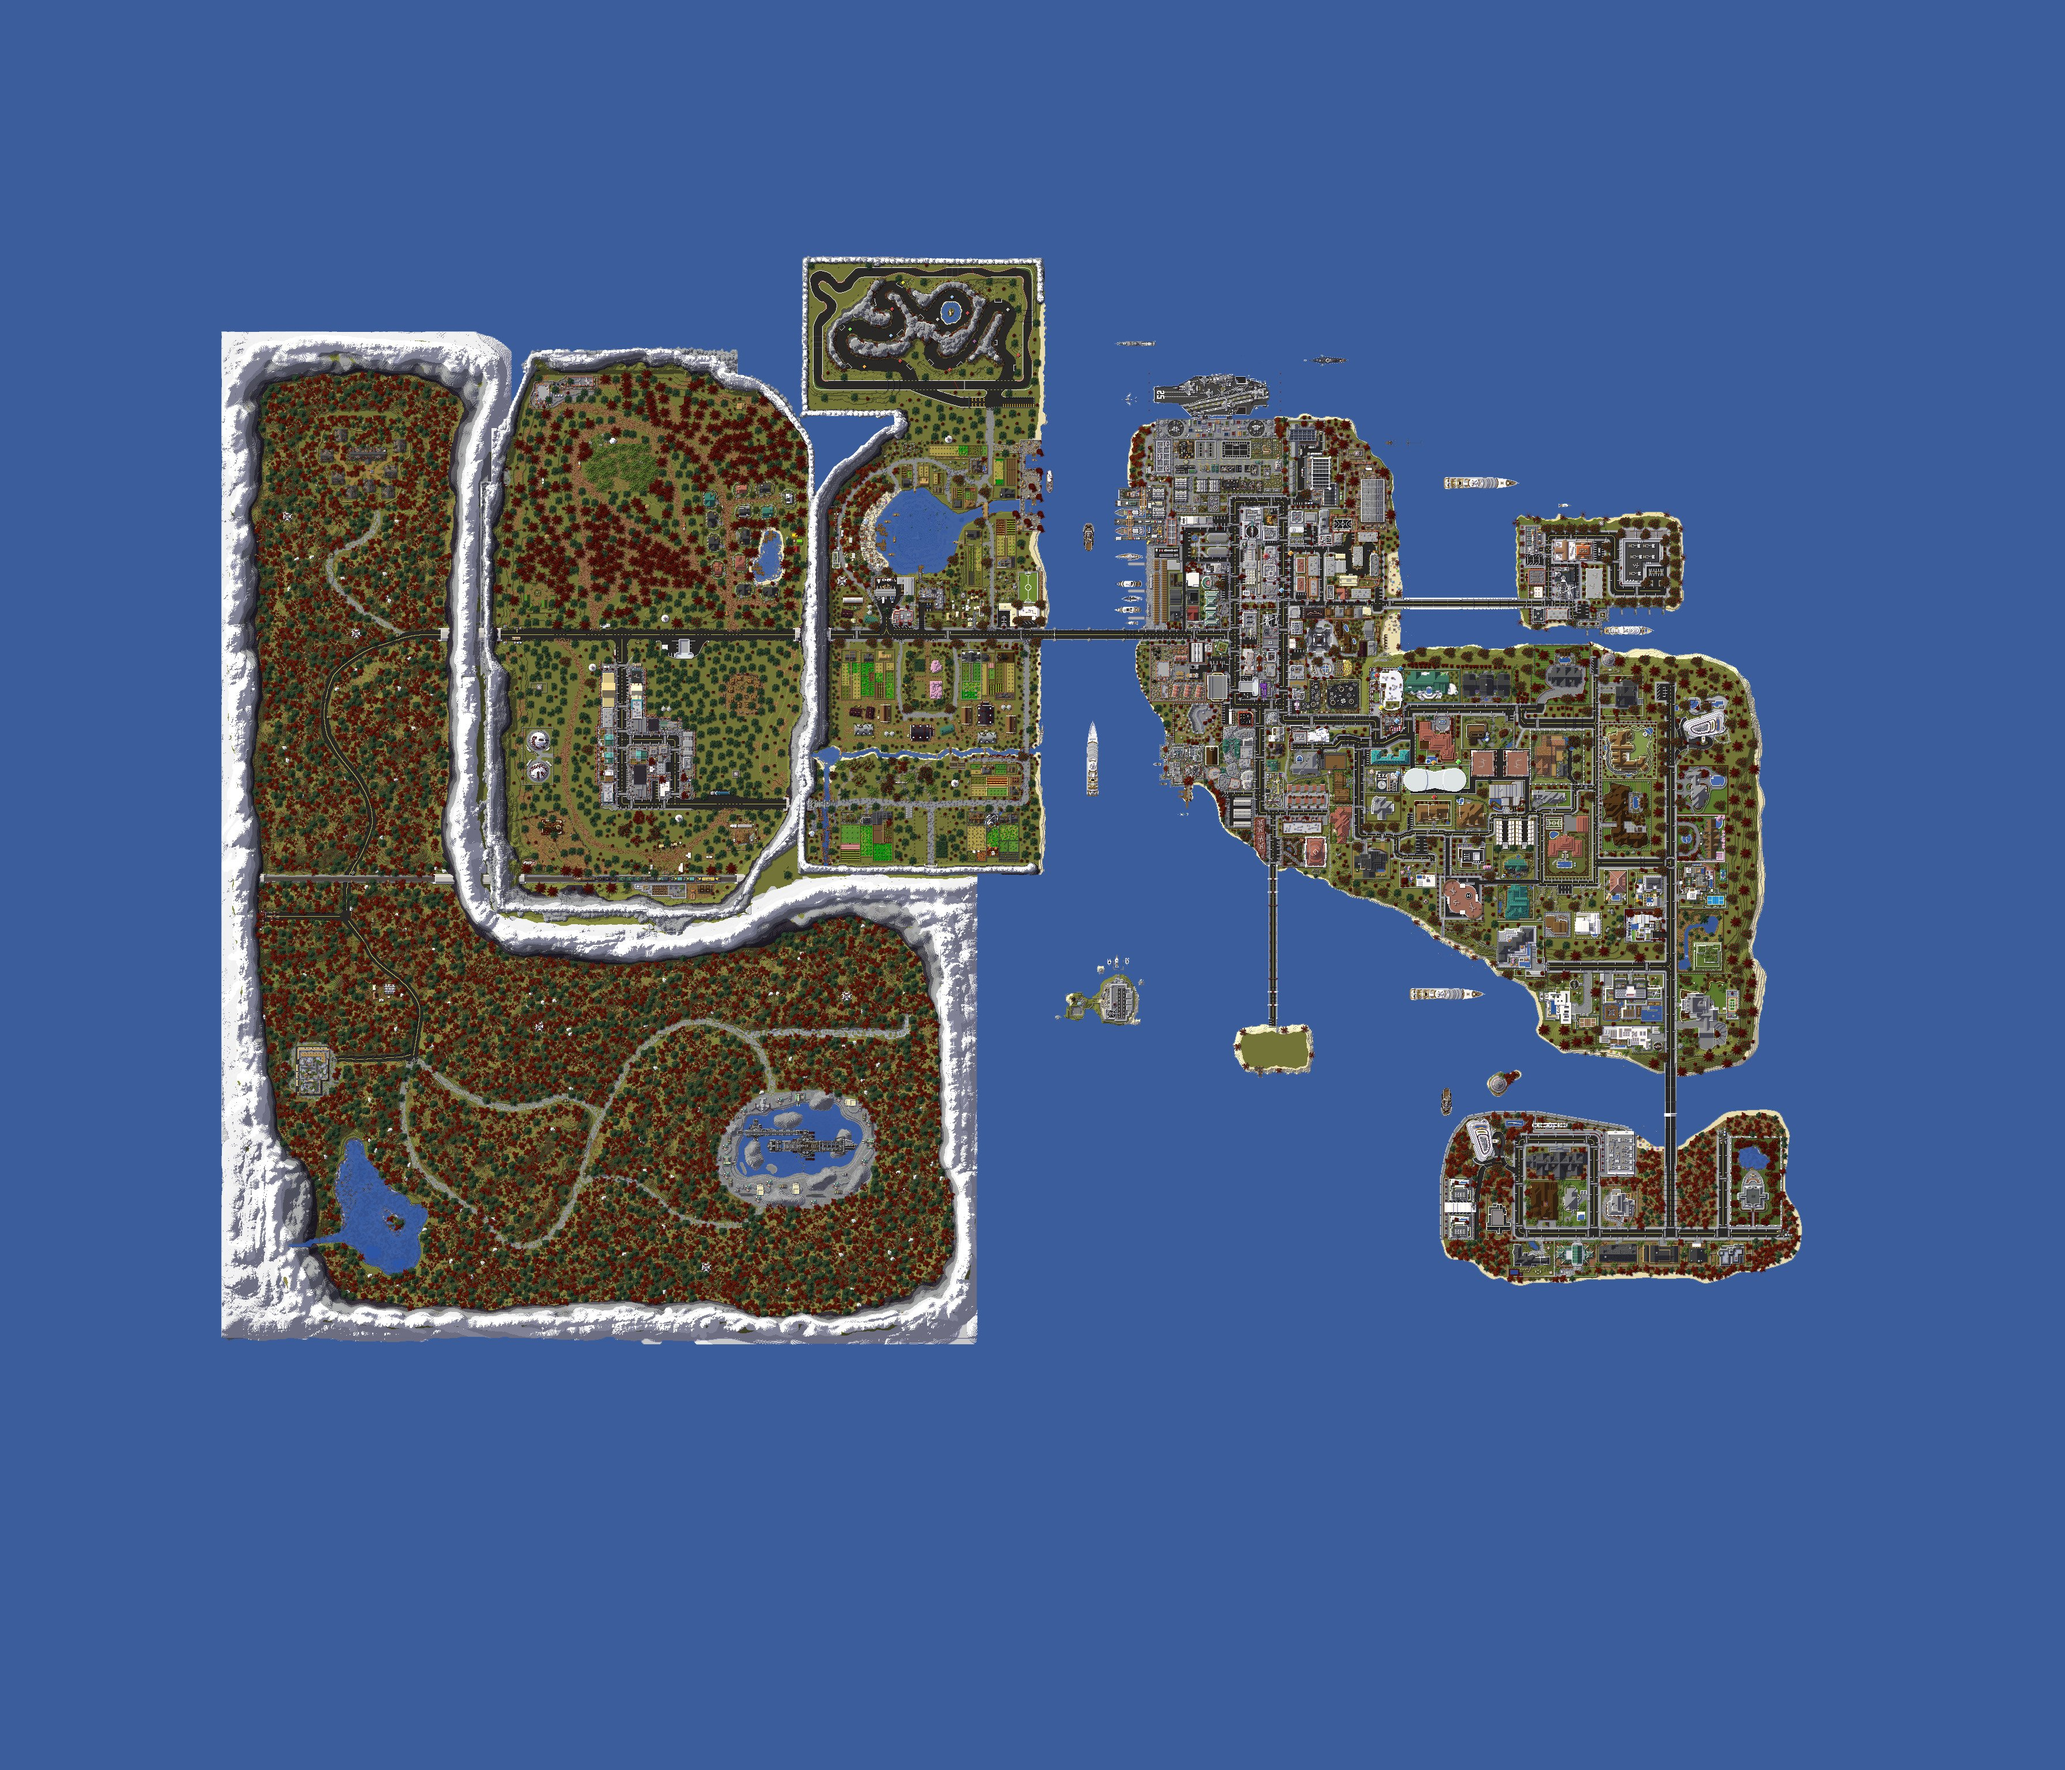
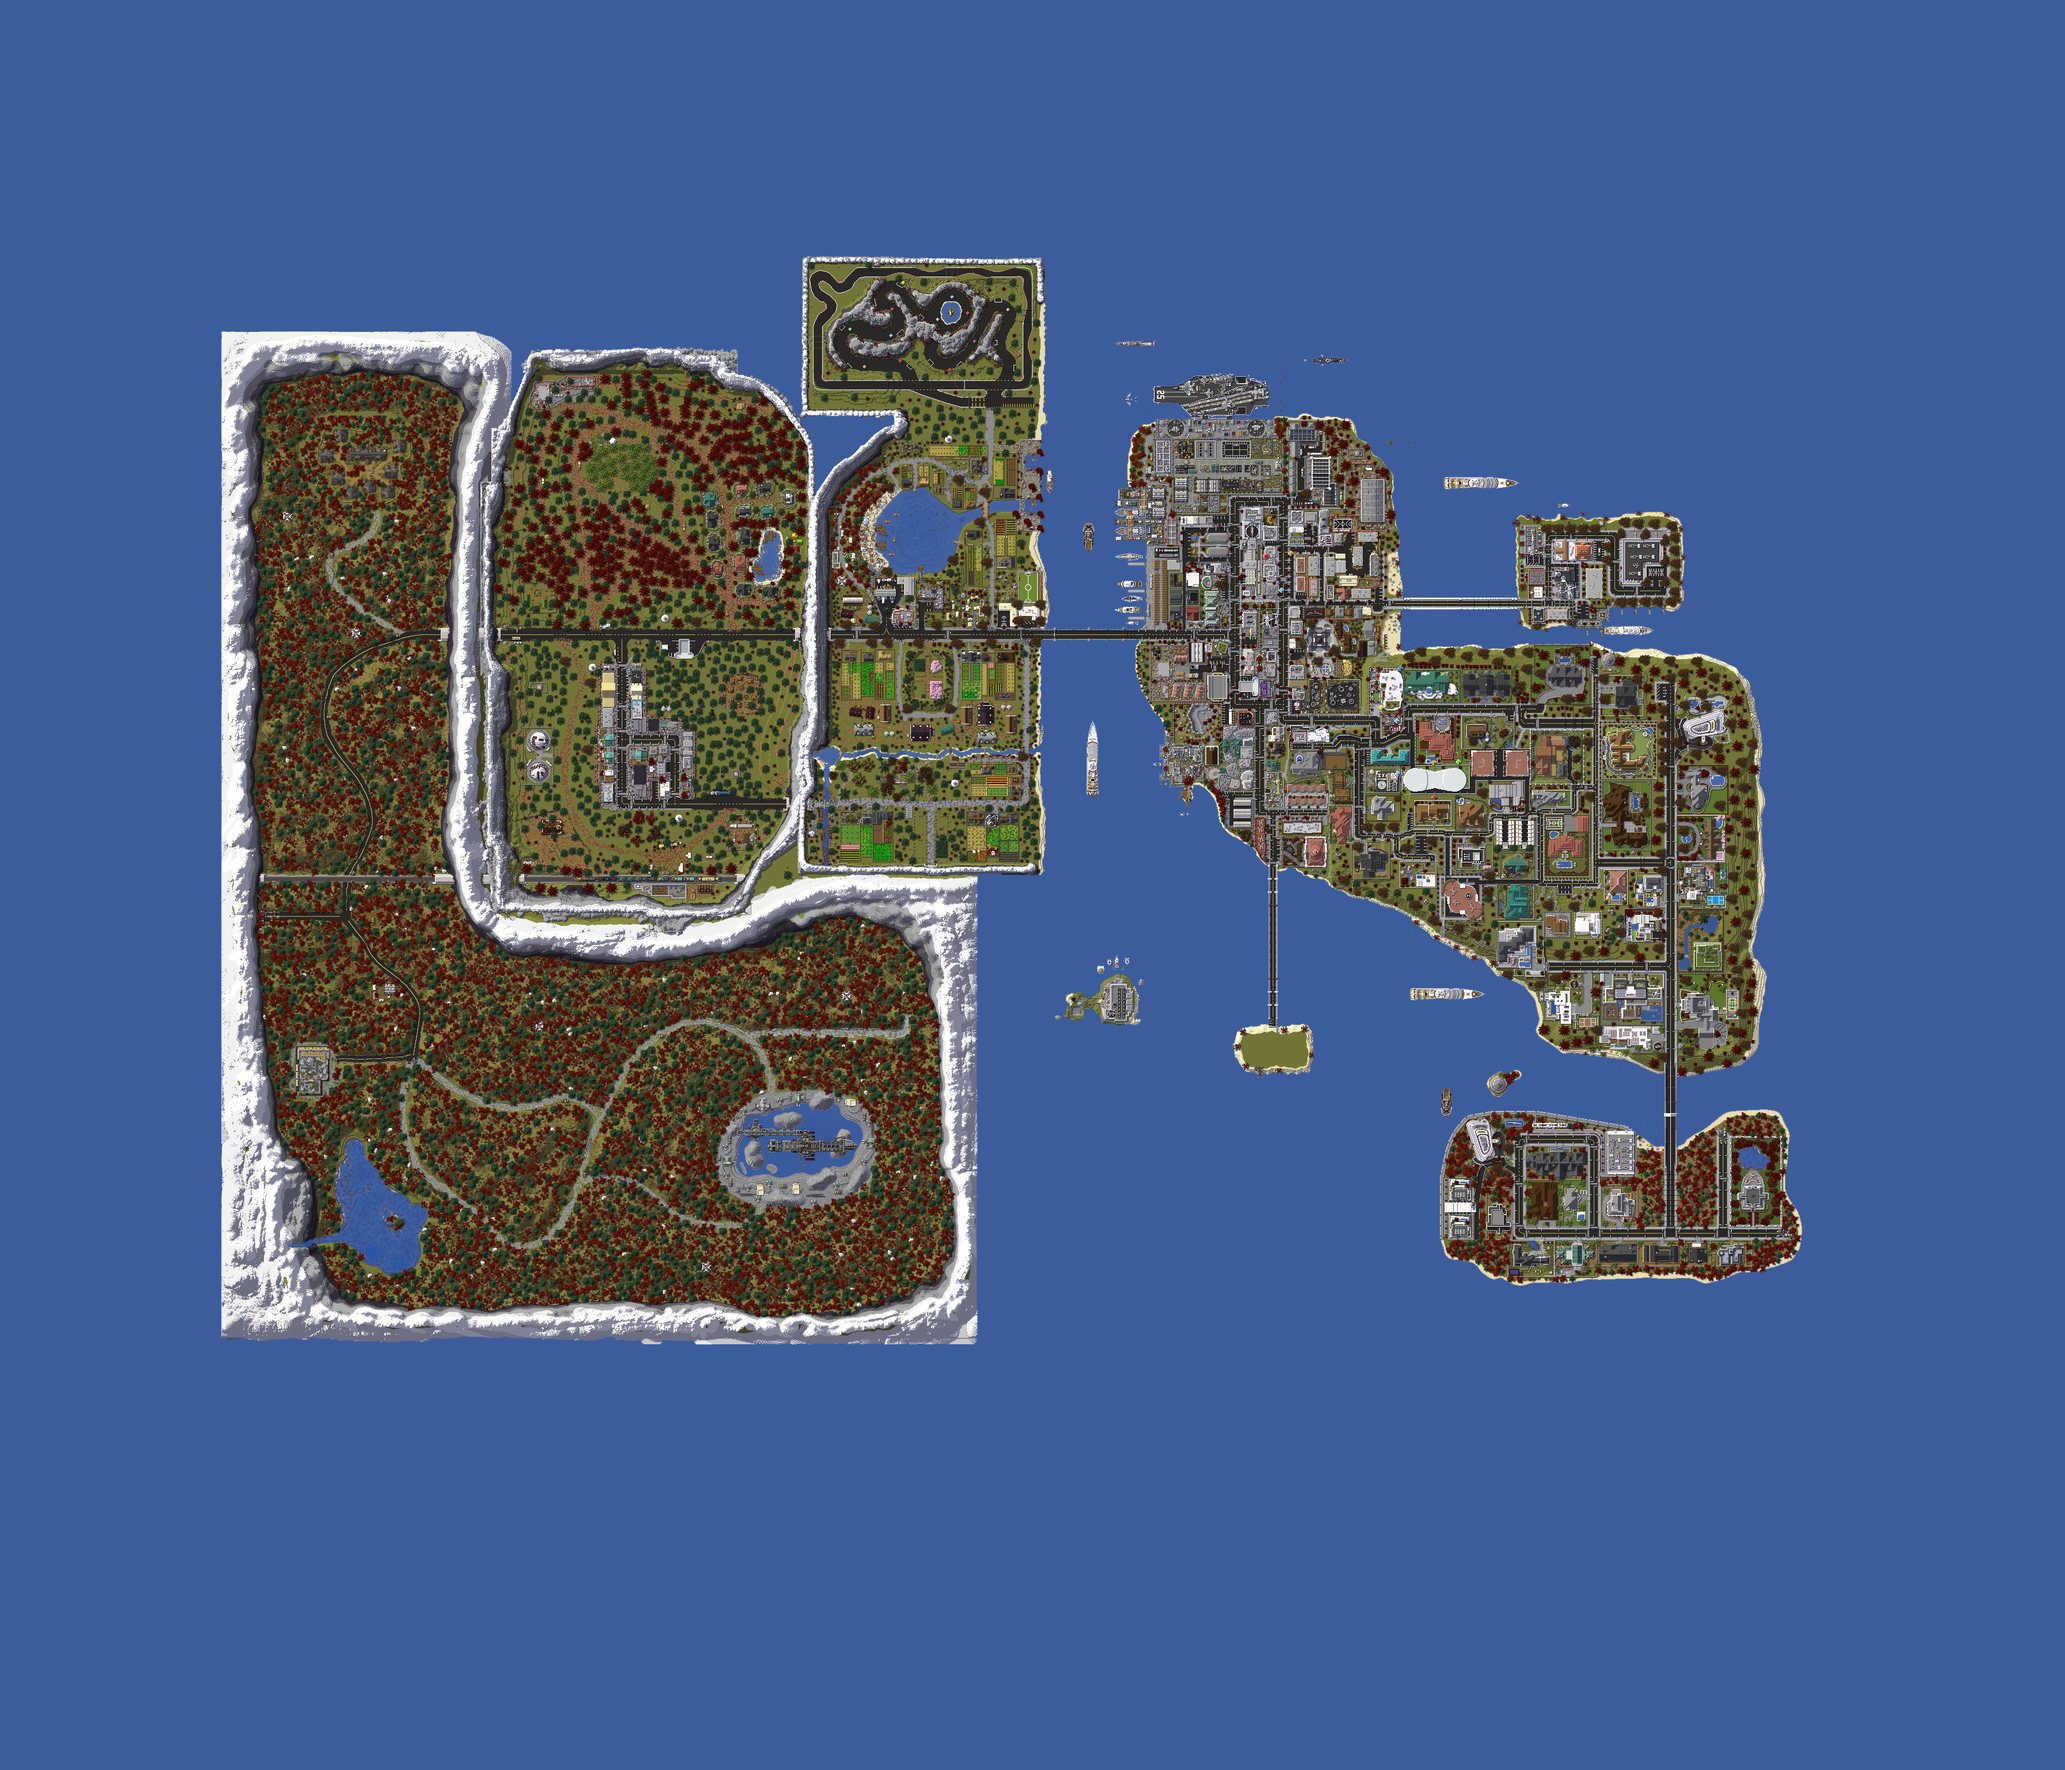
fix: zoom as deep as the reference site, use original map JPEGs
maxZoom 1.5 -> 3.25: the map now reaches ~19000 px on screen, the same
as UniverTutor (3303 px image at zoom 2.5). The map images were
re-encoded at q85 with 4:2:0 chroma subsampling, which blurred colours
and thin details; they are now the user's originals byte for byte
(4:4:4, ~q90).

diff --git a/js/app.js b/js/app.js
@@ -19,7 +19,9 @@
     crs: L.CRS.Simple,
     zoomSnap: 0.25,
     zoomDelta: 0.5,
-    maxZoom: 1.5, // исходник 3584 px ≈ зум 0.84, дальше лёгкое увеличение
+    // Карта 2000 единиц шириной; на зуме 3.25 она ≈ 19000 px на экране —
+    // столько же, сколько у примера UniverTutor (3303 px × 2^2.5).
+    maxZoom: 3.25,
     maxBounds: bounds,
     maxBoundsViscosity: 1,
     attributionControl: false,
